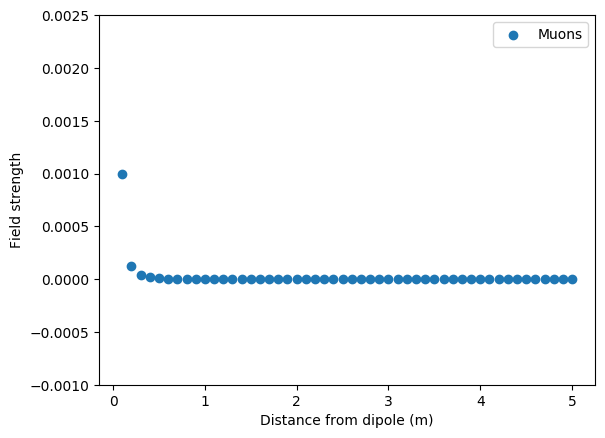
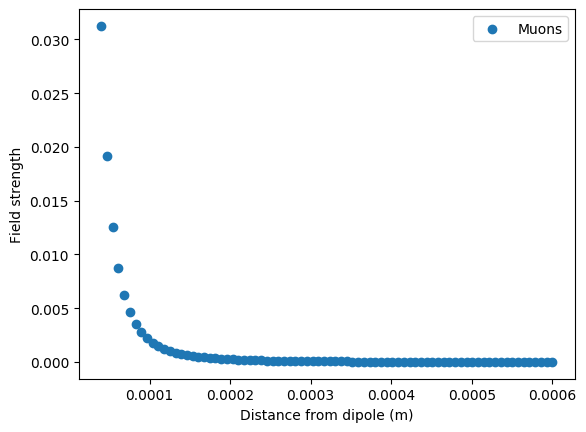
Added functions to test dipole in 1D Added functions to aid plotting

Changed region(s): [[0.0, 0.0, 1.0, 0.9931]]

diff --git a/scripts/check_model.py b/scripts/check_model.py
@@ -2,78 +2,173 @@
 import numpy as np
 from scipy.optimize import curve_fit
 import matplotlib.pyplot as plt
-from matplotlib import rc_file
 
-rc_file("config/muon.rc")
-
+from modules.dipole import Dipole
 from modules.island import Island
 from modules.muon import Muon
 import modules.functions as func
 
-island = Island(orientation=0,
-                coord=[0, 0],
-                strength=5,
-                size=(2, 2),
-                location=[0, 0])
 
-muon = Muon(location=[5, 0],
-            spin_dir=[-1, 0],
-            lifetime=1)
+def check_calculations():
+    island = Island(orientation=0,
+                    coord=[0, 0],
+                    strength=1e-8,
+                    size=(2, 2),
+                    location=[0, 0])
 
-field_calc = island.get_mag_field(muon.location)
+    muon = Muon(location=[5, 0],
+                spin_dir=[-1, 0],
+                lifetime=1)
 
-"""
-By hand calculation for field at (5, 0)m from point dipole at (0, 0)m
-with strength 1T, orientation 0 degrees
-B = 1.59999e-9 T
-"""
-print("Field experience by muon is:")
-print(f"Hand calculation: [1.599e-9, 0] T")
-print(f"Model calculation: {field_calc} T")
+    field_calc = island.get_mag_field(muon.location)
+    print("""By hand calculation for field at (5, 0)m from point dipole at (0, 0)m with\n
+          strength = 1 T\n
+          orientation = 0 deg\n
+          B field = 1.6e-9 T""")
+    print(f"Island has magnetic moment {island.moment}")
+    print("Field experienced by muon is:")
+    print("Hand calculation: [1.6e-9, 0] T")
+    print(f"Model calculation: {field_calc} T")
 
-########################################################
-"""
-A muon with spin in the negative x-axis can determine the effect of a dipole
-"""
-muon.feel_dipole(island)
+    ########################################################
+    print("""\n
+    A muon with spin in the negative x-axis can determine the effect of a dipole
+    """)
+    muon.feel_dipole(island)
 
-print("By hand:")
-print("angle between spin and field: pi")
-print("larmor frequency: 1.362 Hz")
-print("angle at decay: 1.362 rads")
+    print("By hand:")
+    print("angle between spin and field: pi")
+    print("larmor frequency: 1.362 Hz")
+    print("angle at decay: 1.362 rads")
 
-print("\nModel values:")
-print(str(muon))
+    print("\nModel values:")
+    print(str(muon))
 
 #########################################################
 """
 Test field drops as expected
 """
-locations = np.linspace(0.1, 5, 50)
-muons, fields = [], []
-for loc in locations:
-    temp_muon = Muon(location=[loc, 0])
-    temp_muon.feel_dipole(island)
-    muons.append(temp_muon)
-    fields.append(func.get_mag(temp_muon.field))
-fields_normed = [float(i) / max(fields) for i in fields]
 
 
-def r_3(x, A, c):
-    return A * (x ** 3) + c
+def check_muon_dipoles():
+    island = Island(orientation=0,
+                    coord=[0, 0],
+                    strength=1e-8,
+                    size=(2, 2),
+                    location=[0, 0])
+    locations = np.linspace(40e-6, 600e-6, 80)
+    muons, fields = [], []
+    for loc in locations:
+        temp_muon = Muon(location=[loc, 0])
+        temp_muon.feel_dipole(island)
+        muons.append(temp_muon)
+        fields.append(func.get_mag(temp_muon.field))
+    fields_normed = [float(i) / max(fields) for i in fields]
+    fields = np.array(fields)
+
+    plt.figure()
+    plt.scatter(locations, fields, label="Muons")
+    plt.legend(loc="best")
+    plt.ylabel("Field strength")
+    plt.xlabel("Distance from dipole (m)")
+    plt.xlim(func.get_limits(locations))
+    plt.ylim(func.get_limits(fields))
+    plt.savefig("images/field_distance.png", bbox_inches="tight")
 
 
-# popt, pcov = curve_fit(r_3, locations, fields_normed, )
-fit_loc = np.linspace(20e-6, 90e-6, 200)
+###########################################################
+def check_precession():
+    field = 1e-8
+    gyro = 2 * np.pi * 136e6
+    larmour = gyro * field
+    lifes = np.linspace(0, 20e-6, 100)
 
-locations_3 = locations ** -0.33
-plt.figure()
-plt.scatter(locations, fields, label="Muons")
-# plt.plot(fit_loc, r_3(fit_loc, *popt), label="Fitted")
-plt.legend(loc="best")
-plt.ylabel("Field strength")
-plt.xlabel("Distance from dipole (m)")
-# plt.xlim(20e-6, 90e-6)
-plt.ylim(-0.001, 0.0025)
-# plt.ylim(0, 1e2)
-plt.savefig("images/field_distance.png", bbox_inches="tight")
+    fig, ax = plt.subplots()
+    ax.plot(lifes, polarisation_func(lifes, larmour))
+    ax.legend(loc="best")
+    ax.set_xlabel("Time (s)")
+    ax.set_ylabel("Polarisation")
+    ax.set_title("Polarisation against time")
+    fig, ax = func.make_fancy_plot(fig, ax)
+    ax.ticklabel_format(axis="x", style="sci", scilimits=(-5, -5))
+    ax.grid()
+    plt.savefig("images/polarisation_test.png", bbox_inches="tight")
+
+
+def polarisation_func(lifetime, larmour):
+    theta = np.pi / 4
+    w = larmour
+    t = lifetime
+    return np.cos(theta) ** 2 + (np.sin(theta) ** 2) * np.cos(w * t)
+
+
+####################################
+# Plot 1d field for dipole
+
+def check_1d_dipole():
+    """
+    Plots and checks that the dipole in 1D works as expected
+    """
+    # Set up field test
+    source = 0
+    targets = np.linspace(20e-6, 100e-6, 20, endpoint=True)
+    forces, indices_to_remove = mag_field_1d(source, targets)
+    normed_forces = func.normalise(forces)
+    targets = np.delete(targets, indices_to_remove)
+    # Curve fit
+    popt, pcov = curve_fit(cubic, targets, normed_forces)
+    fit_targets = np.linspace(min(targets), max(targets), 100)
+
+    # PLOT
+    fig, ax = plt.subplots()
+    ax.scatter(targets, normed_forces, label="Calculated field", marker="x", color="k")
+    ax.plot(fit_targets, cubic(fit_targets, *popt), label="$k/r^3$ fit")
+    ax.set_ylim(func.get_limits(normed_forces))
+    ax.set_xlim(func.get_limits(targets))
+    ax.legend(loc="best")
+    ax.set_xlabel("Distance from dipole (m)")
+    ax.set_ylabel("Normalised field strength B(r) (arb. units)")
+    ax.set_title("Dipole field strength against separation (1 dimension)")
+    fig, ax = func.make_fancy_plot(fig, ax)
+    ax.ticklabel_format(axis="x", style="sci", scilimits=(-5, -5))
+    ax.grid()
+    plt.savefig("images/1d_field.png", bbox_inches="tight", dpi=300)
+
+
+def mag_field_1d(source, target):
+    """
+    :param coordinate source: Location of field source
+    :param array(cooridnates) target: the locations to calculate the field at
+    :rtype: array
+    :return: An array of field magnitudes
+    """
+    moment = 8e-8
+    mag_perm = 1e-7  # Cancel constant terms to get mag_perm as only constant
+    relative_loc = target - source
+    magnitude = np.sqrt((relative_loc ** 2))
+    too_close_locations = np.where(abs(relative_loc) <= float(1e-9))
+    relative_loc = np.delete(relative_loc, too_close_locations)
+    fields = np.array(mag_perm * (
+            (3 * relative_loc * (np.dot(moment, relative_loc))
+             / (magnitude ** 5))
+            - (moment / (magnitude ** 3))
+    ))
+    # fields = np.array(mag_perm * (
+    #     2*moment / (relative_loc**3)
+    # ))
+    # fields[too_close_locations] = max(fields)
+    return fields, too_close_locations
+
+
+def cubic(x, m):
+    return 2 * m / (x ** 3)
+
+
+angles = np.random.uniform(0, 6.28, 10)
+ensemble = [Dipole(angle, [0, 0, 0], 3) for i, angle in enumerate(angles)]
+
+if __name__ == "__main__":
+    check_calculations()
+    check_muon_dipoles()
+    check_precession()
+    check_1d_dipole()

diff --git a/modules/functions.py b/modules/functions.py
@@ -1,4 +1,6 @@
 import numpy as np
+
+
 # =============================================================================
 # VECTOR FUNCTIONS
 # =============================================================================
@@ -35,6 +37,43 @@ def get_angle(vec1, vec2):
     dot = sum(x * y for x, y in zip(vec1, vec2))
     mag1, mag2 = get_mag(vec1), get_mag(vec2)
     return np.arccos(dot / (mag1 * mag2))
+
+
+def normalise(arr):
+    """
+    :param array arr: Input array to normalise
+    :rtype: array
+    :return: Normalised array
+    """
+    norm = np.sqrt((arr ** 2).sum())
+    if norm == 0:
+        return arr
+    return arr / norm
+
+
+def get_limits(arr):
+    """
+    :param array arr: Data to get plotting limits for
+    :rtype: tuple(float, float)
+    :return: min and max for plotting arr
+    """
+    spread = max(arr) - min(arr)
+    small = min(arr) - spread / 20
+    big = max(arr) + spread / 20
+    return (small, big)
+
+
+def make_fancy_plot(fig, ax):
+    import matplotlib.pyplot as plt
+    from matplotlib.ticker import ScalarFormatter, AutoMinorLocator
+    plt.style.use("./config/fancy_plots.mplstyle")
+    ax.yaxis.set_major_formatter(ScalarFormatter())
+    ax.yaxis.major.formatter._useMathText = True
+    ax.yaxis.set_minor_locator(AutoMinorLocator(5))
+    ax.xaxis.set_minor_locator(AutoMinorLocator(5))
+    return fig, ax
+
+
 # =============================================================================
 # PARTICLE FUNCTIONS
 # =============================================================================
@@ -84,6 +123,8 @@ def chunk_muons(list_to_chunk, freq_per_chunk):
         chunks[i] = list_to_chunk[chunk_start:chunk_start + freq]
         chunk_start += freq
     return chunks
+
+
 # =============================================================================
 # DATA SAVE
 # =============================================================================
@@ -119,6 +160,8 @@ def save_object(filename, obj):
     file_path = f"../data/{filename}.pickle"
     with open(file_path, 'wb') as output:  # Overwrites any existing file.
         pickle.dump(obj, output, pickle.HIGHEST_PROTOCOL)
+
+
 # =============================================================================
 # DATA LOAD
 # =============================================================================
@@ -132,6 +175,7 @@ def load_object(file_name):
     file_path = f"../data/{file_name}.pickle"
     with open(file_path, 'r') as output:  # Open as read
         return pickle.load(output)
+
 
 def load_config(file_name):
     """
@@ -151,9 +195,9 @@ def load_config(file_name):
         try:
             data[key.strip()] = float(value.strip())
         except ValueError:
-            #print(f"\"{item}\" is not float. Converting to bool...")
+            # print(f"\"{item}\" is not float. Converting to bool...")
             data[key.strip()] = True if value.strip().lower() == "true" else False
-            #print(f"Converted {key.strip()} to bool -> {data[key.strip()]}")
+            # print(f"Converted {key.strip()} to bool -> {data[key.strip()]}")
     return data
 
 
